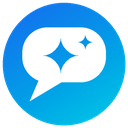
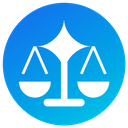
design(tabs): the raised AI button is the scales of justice with the AI spark as their beam — legal answers, no text

Changed region(s): [[0.125, 0.1562, 0.875, 0.8438]]

diff --git a/DESIGN.md b/DESIGN.md
@@ -45,7 +45,7 @@ iOS (flags on) is a glass-on-colour system.
 - **Cards** are frosted panes, not real glass (a native glass view per list row is too heavy): `glassFill` + `glassLine`, a short bright
   top sheen, no shadow (a shadow would show through the translucent fill). Card-shaped surfaces that are not `<Card>` (rows, panels,
   inputs) use the same two tokens; `surface` stays for opaque things (thumbs, sheets' content). Do not nest cards.
-- The tab bar is the system `NativeTabs` bar; the app's theme is handed to iOS (`Appearance.setColorScheme`) so it matches. The AI tab is a raised button: its slot in the system bar is an empty image, and `AiRaisedButton` stands in it — a brand-gradient disc with a white chat bubble with two sparks cut into it (no text) (`assets/tabs/ai-orb*.png`) rising above the bar with no caption and a soft ring that breathes out every few seconds (off with Reduce Motion). The AI tab is always the middle slot (an empty disabled `gap` slot beside it when the tab count is even), so the button is centred on the screen; its height constants are at the top of the file. Glows, aurora and glass spheres were tried and dropped as too flashy for the calm, exact tone.
+- The tab bar is the system `NativeTabs` bar; the app's theme is handed to iOS (`Appearance.setColorScheme`) so it matches. The AI tab is a raised button: its slot in the system bar is an empty image, and `AiRaisedButton` stands in it — a brand-gradient disc with white scales of justice whose beam is the AI spark (legal + AI, no text) (`assets/tabs/ai-orb*.png`) rising above the bar with no caption and a soft ring that breathes out every few seconds (off with Reduce Motion). The AI tab is always the middle slot (an empty disabled `gap` slot beside it when the tab count is even), so the button is centred on the screen; its height constants are at the top of the file. Glows, aurora and glass spheres were tried and dropped as too flashy for the calm, exact tone.
 
 ## Materials (Android — Material 3 Expressive)
 
